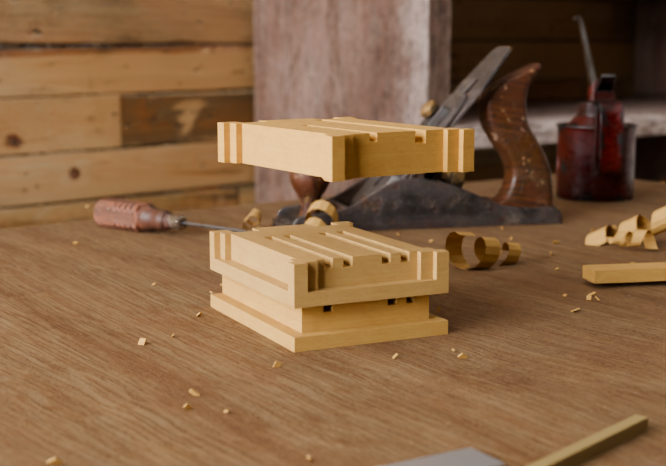
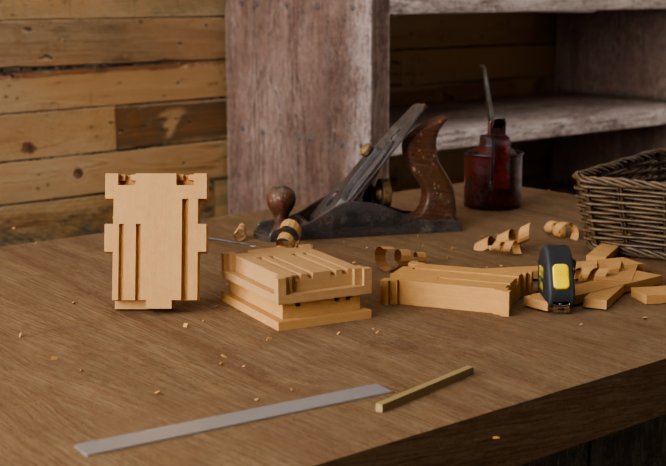
The dressed set, at draft: workshop, studio, wall mount
The render pass came back transformed and the whole shot list is
replaced. The workshop is a real place now -- plank wall, shelf, hand
plane, oiler, basket, shavings, rule and square on a bench -- lit by a
window, deep focus, with the assembly sequence shot inside it on one held
camera. The wall variant hangs on a short cleat on a plastered wall with
a true shadow instead of floating in a void. Timber measures against the
launch photography at last: hue 30.6 against a target of 30.5, birch
rather than terracotta, checked under both the studio key and the
workshop window since the same tint drifts warm under warm light.

Two of its calls stand: detail-joint is deleted rather than shipped weak
-- an abstract close-up of blocks with no scale or story, the same fault
as the close-up already killed -- and the exploded floating part in
workshop-hands became a stack mid-assembly with the next storeys laid
down, because a hover that reads as a diagram on a sweep reads as a
mistake in a room.

Root causes fixed underneath: slab() baked its location into the mesh
under Blender 5's transform_apply, which is why walls went missing and
offcuts hovered; CC0 assets from Poly Haven now light and dress the
scenes (fetched by tools/fetch_assets.py into git-ignored
assets/third_party with a SOURCES.md).

Everything here is draft resolution -- one third size, 24 samples --
committed so the compositions are on record. The full-quality pass is
running and will overwrite these files in place.

diff --git a/docs/directions/landing-opus.html b/docs/directions/landing-opus.html
@@ -576,7 +576,7 @@ figcaption b { color: var(--ink); font-weight: 400; }
     </div>
 
     <figure class="bleed">
-      <img src="../renders/web/hero-garden.jpg" alt="A Bee Home standing on legs in low afternoon light, sited in planting" />
+      <img src="../renders/web/studio-wall.jpg" alt="A Bee Home fixed to a wall on a short timber cleat, casting a soft shadow" />
     </figure>
 
     <!-- The numbers hang off the drawing, not the photograph. On a render they

diff --git a/tools/render_stills.py b/tools/render_stills.py
@@ -437,7 +437,7 @@ def env_workshop(dress=True):
     # and at f/10 a wall five metres off is just a large empty area of the frame.
     back = slab(9.4, 0.12, 3.62, (0.1, 1.62, 2.70))
     back.data.materials.append(planks)
-    right = slab(0.12, 5.2, 3.62, (2.55, 0.0, 2.70))
+    right = slab(0.12, 5.2, 3.62, (3.30, 0.0, 2.70))
     right.data.materials.append(plaster)
     ceiling = plane(12, location=(0, 0.2, 2.70))
     ceiling.data.materials.append(flat_material("ceiling", (0.68, 0.68, 0.665), 0.92))
@@ -467,7 +467,7 @@ def env_workshop(dress=True):
     key = bpy.context.object
     key.data.shape = "RECTANGLE"
     key.data.size, key.data.size_y = 1.44, 2.01
-    key.data.energy = 900.0
+    key.data.energy = 620.0
     key.data.color = (0.945, 0.960, 1.0)
     key.rotation_euler = (0, math.radians(-90), 0)
 
@@ -477,7 +477,7 @@ def env_workshop(dress=True):
     # and a key square to the bench leaves everything behind it black.
     bpy.ops.object.light_add(type="SUN", location=(-1.8, 0.0, 1.4))
     sun = bpy.context.object
-    sun.data.energy = 3.1
+    sun.data.energy = 4.6
     sun.data.angle = math.radians(9)
     sun.data.color = (1.0, 0.982, 0.958)
     sun.rotation_euler = (math.radians(64), 0, math.radians(-42))
@@ -493,11 +493,11 @@ def env_workshop(dress=True):
 
     # Bounce off the right-hand wall, keeping the shadow side open. Weak: the
     # shadow side wants to stay a stop or so down, not disappear.
-    bpy.ops.object.light_add(type="AREA", location=(2.45, -0.10, 0.55))
+    bpy.ops.object.light_add(type="AREA", location=(2.60, -0.10, 0.55))
     bounce = bpy.context.object
     bounce.data.shape = "RECTANGLE"
     bounce.data.size, bounce.data.size_y = 2.6, 1.8
-    bounce.data.energy = 55.0
+    bounce.data.energy = 42.0
     bounce.data.color = (1.0, 0.988, 0.972)
     bounce.rotation_euler = (0, math.radians(90), 0)
 
@@ -714,14 +714,27 @@ def env_studio_wall():
     the subject to take a contact shadow.
     """
     sweep = env_studio()
-    wall = slab(2.6, 0.11, 2.2, (0.06, 0.145, 1.30))
+    wall = slab(3.4, 0.11, 2.6, (0.06, 0.145, 2.10))
     wall.data.materials.append(
-        pbr_material("studio_wall", "beige_wall_001", scale=0.55,
-                     tint=(0.86, 0.855, 0.84), bump=0.5))
+        pbr_material("studio_wall", "beige_wall_001", scale=1.7,
+                     tint=(0.90, 0.898, 0.90), bump=0.55))
     # A skirting stops the wall meeting the floor on a single hard line, which
-    # is the detail that makes a plane read as a wall rather than as a card.
-    skirt = slab(2.6, 0.024, 0.09, (0.06, 0.078, 0.09))
-    skirt.data.materials.append(flat_material("skirting", (0.845, 0.842, 0.832), 0.55))
+    # is the detail that makes a plane read as a wall rather than as a card. It
+    # sits well below any of the framing here, but it is what stops a grazing
+    # camera catching the join.
+    skirt = slab(3.4, 0.026, 0.095, (0.06, 0.076, 0.095))
+    skirt.data.materials.append(flat_material("skirting", (0.855, 0.852, 0.842), 0.5))
+
+    # A second, closer soft source aimed along the wall. The studio key alone
+    # lights the object beautifully and leaves the wall behind it dead flat,
+    # and the whole reason this variant needs a wall is to see it take a shadow.
+    bpy.ops.object.light_add(type="AREA", location=(-1.35, -1.15, 1.85))
+    graze = bpy.context.object
+    graze.data.shape = "RECTANGLE"
+    graze.data.size, graze.data.size_y = 1.5, 1.2
+    graze.data.energy = 130.0
+    graze.data.color = (1.0, 0.99, 0.975)
+    graze.rotation_euler = (math.radians(64), 0, math.radians(-40))
     return sweep
 
 
@@ -884,6 +897,24 @@ def place(obj, x, y, z, z_min, z_stretch=1.0, yaw=0.0):
     obj.rotation_euler = (0, 0, yaw)
 
 
+def seat(objects, z=0.0):
+    """Drop a group so its lowest vertex rests at `z`.
+
+    `place` positions a part from its untransformed z-extent, which is right for
+    a stack but wrong the moment a part is tipped on edge — the rotation swings
+    the geometry through the bench. This re-measures after the fact.
+    """
+    from mathutils import Vector
+
+    bpy.context.view_layer.update()
+    corners = [obj.matrix_world @ Vector(c) for obj in objects for c in obj.bound_box]
+    shift = z - min(c.z for c in corners)
+    for obj in objects:
+        obj.location.z += shift
+    bpy.context.view_layer.update()
+    return objects
+
+
 def paint(objects, wood):
     mat = wood_material(f"wood_{wood}_{len(bpy.data.materials)}", WOODS[wood])
     for obj in objects:
@@ -961,20 +992,26 @@ def add_spike(index, origin, lift, wood="birch"):
     return paint(objs, wood)
 
 
-def add_wall_mount(index, origin, lift, wood="birch"):
-    """Fixed to a board: the base plate cantilevered off a vertical panel."""
+def add_wall_mount(index, origin, lift, wood="birch", wall_y=0.092):
+    """Fixed to a wall: the base plate carried on a short cleat.
+
+    The cleat is a bracket, not a backboard. The earlier version ran a panel the
+    full height of the mount, which meant a metre of dark timber standing behind
+    a 150 mm object — the framing then had to fit the panel, and the product
+    ended up a detail at the top of its own photograph. Anything holding this to
+    a wall only has to be as tall as the base it carries.
+    """
     objs = []
     base_parts, base_h, base_zmin = load_part(os.path.join(MODELS, "base.glb"))
     for obj in base_parts:
         place(obj, origin[0], origin[1], lift - base_h * MM, base_zmin)
-    objs += base_parts
-    objs = paint(objs, wood)
+    objs += paint(base_parts, wood)
 
-    board = slab(0.30, 0.020, lift + 0.30, (origin[0], origin[1] + 0.092, lift + 0.22))
-    board.data.materials.append(
-        wood_material(f"board_{len(bpy.data.materials)}", WOODS["walnut"],
-                      roughness=0.70, scale=5.0))
-    return objs + [board]
+    cleat = slab(0.150, 0.026, 0.128, (origin[0], origin[1] + wall_y, lift - 0.006))
+    cleat.data.materials.append(
+        wood_material(f"cleat_{len(bpy.data.materials)}", WOODS["walnut"],
+                      roughness=0.62, scale=6.0))
+    return objs + [cleat]
 
 
 def render(path):
@@ -1006,27 +1043,42 @@ def shot_workshop_bench(index):
     env_workshop()
     subject, _ = build(index, ["A", "B", "C", "M"], ["birch", "beech"],
                        origin=(-0.06, 0.04), lift=0.0, yaw=math.radians(16))
-    frame(subject, azimuth=-36, elevation=19, lens=52, margin=2.20, fstop=10.0,
-          target=(0.5, 0.44, 0.44))
+    frame(subject, azimuth=-34, elevation=15, lens=50, margin=3.05, fstop=10.0,
+          target=(0.62, 0.46, 0.52))
     render(f"{OUT}/workshop-bench.png")
 
 
 def shot_workshop_hands(index):
-    """Lower and closer: a storey going on, tools and shavings in the near field."""
+    """Lower and closer: a part-built stack with the next storeys still loose.
+
+    Nothing hovers. An exploded stack is a diagram convention and it survives on
+    a white sweep, but dropped into a room with real light and real shadows a
+    floating part stops reading as "about to go on" and starts reading as a
+    mistake. The same moment is carried here by a seated stack, the next storey
+    laid down beside it and one stood on edge behind.
+    """
     reset(*size(2000, 1400, 130))
     env_workshop()
     origin = (-0.02, 0.02)
     yaw = math.radians(-12)
-    subject, top = build(index, ["N", "O"], ["birch", "ash"], origin=origin,
-                         lift=0.0, yaw=yaw, roof=False)
-    # The next storey held just clear of the stack — the moment before it seats.
-    nxt, _, z_min = load_part(os.path.join(MODELS, "P_a.glb"))
-    for obj in nxt:
-        place(obj, origin[0] + 0.012, origin[1] - 0.006, top + 0.055, z_min,
-              yaw=yaw + math.radians(7))
-    subject += paint(nxt, "beech")
-    frame(subject, azimuth=-38, elevation=9, lens=68, margin=1.95, fstop=9.0,
-          target=(0.5, 0.45, 0.46))
+    subject, _ = build(index, ["N", "O"], ["birch", "ash"], origin=origin,
+                       lift=0.0, yaw=yaw, roof=False)
+
+    flat, _, z_min = load_part(os.path.join(MODELS, "P_a.glb"))
+    for obj in flat:
+        place(obj, 0.165, -0.070, 0.0, z_min, yaw=math.radians(28))
+    subject += paint(flat, "beech")
+
+    # One stood on its edge, leaning back on the stack — how a part actually
+    # waits its turn on a bench.
+    edge, _, e_zmin = load_part(os.path.join(MODELS, "C_a.glb"))
+    for obj in edge:
+        place(obj, -0.150, 0.120, 0.0, e_zmin, yaw=math.radians(-40))
+        obj.rotation_euler = (math.radians(74), 0, math.radians(-40))
+    subject += paint(seat(edge), "birch")
+
+    frame(subject, azimuth=-40, elevation=11, lens=70, margin=1.45, fstop=9.0,
+          target=(0.50, 0.46, 0.56))
     render(f"{OUT}/workshop-hands.png")
 
 
@@ -1054,7 +1106,7 @@ def shot_studio_three_quarter(index):
     subject, _ = build(index, ["D", "F", "G", "M"], ["beech", "birch", "walnut"],
                        lift=lift, yaw=yaw)
     subject += add_support(index, (0, 0), lift, wood="beech", yaw=yaw)
-    frame(subject, azimuth=-30, elevation=3, lens=105, margin=1.10, fstop=11.0,
+    frame(subject, azimuth=-30, elevation=3, lens=105, margin=1.18, fstop=11.0,
           target=(0.5, 0.5, 0.52))
     render(f"{OUT}/studio-three-quarter.png")
 
@@ -1063,11 +1115,15 @@ def shot_studio_grounded(index):
     """The ground-spike variant: different storeys again, and a cooler timber."""
     reset(*size(2000, 1500, 120), look="AgX - Base Contrast")
     env_studio()
-    lift = 0.40
+    lift = 0.27
     subject, _ = build(index, ["I", "J", "C", "M"], ["ash", "ash", "walnut"], lift=lift)
     subject += add_spike(index, (0, 0), lift, wood="ash")
-    frame(subject, azimuth=-20, elevation=6, lens=110, margin=1.10, fstop=11.0,
-          target=(0.5, 0.5, 0.56))
+    # Cropped through the spike rather than showing its point. On a seamless
+    # sweep there is no ground for it to enter, and a tapered post stopping in
+    # mid-air reads as a floating stick; running it out of the frame lets the
+    # eye finish it.
+    frame(subject, azimuth=-24, elevation=6, lens=110, margin=0.76, fstop=11.0,
+          target=(0.5, 0.5, 0.78))
     render(f"{OUT}/studio-grounded.png")
 
 
@@ -1075,24 +1131,16 @@ def shot_studio_wall(index):
     """The wall-fixed variant, on an actual wall, with the shadow to prove it."""
     reset(*size(2000, 1500, 120), look="AgX - Base Contrast")
     env_studio_wall()
-    lift = 0.62
+    lift = 1.05
     subject, _ = build(index, ["N", "O", "P", "M"], ["birch", "walnut", "birch"],
                        lift=lift)
     subject += add_wall_mount(index, (0, 0), lift, wood="birch")
-    frame(subject, azimuth=-26, elevation=4, lens=105, margin=1.34, fstop=11.0,
-          target=(0.5, 0.5, 0.50))
+    # Slightly below the object and off to one side, so the cleat, the gap
+    # behind it and the shadow it throws all read at once. Square on, a wall
+    # mount is indistinguishable from something standing on a shelf.
+    frame(subject, azimuth=-31, elevation=-4, lens=100, margin=1.62, fstop=11.0,
+          target=(0.5, 0.5, 0.46))
     render(f"{OUT}/studio-wall.png")
-
-
-def shot_detail_joint(index):
-    """Close on a corner: the storey seam and the spine key, raking window light."""
-    reset(*size(1800, 1350, 130))
-    env_workshop(dress=False)
-    bpy.context.scene.view_settings.exposure = -0.95
-    subject, _ = build(index, ["D", "F", "G", "H"], ["birch", "ash", "walnut"], lift=0.02)
-    frame(subject, azimuth=-52, elevation=12, lens=120, margin=1.02, fstop=13.0,
-          target=(0.24, 0.26, 0.50), pull=0.66)
-    render(f"{OUT}/detail-joint.png")
 
 
 def shot_assembly(index):
@@ -1146,7 +1194,6 @@ SHOTS = {
     "studio-three-quarter": shot_studio_three_quarter,
     "studio-grounded": shot_studio_grounded,
     "studio-wall": shot_studio_wall,
-    "detail-joint": shot_detail_joint,
     "assembly": shot_assembly,
 }
 

diff --git a/docs/ASSET-BRIEF.md b/docs/ASSET-BRIEF.md
@@ -95,7 +95,7 @@ to feed alongside the prompt:
 
 - `docs/plates/bh-4.png` — hidden-line drawing of the real four-storey model
   (ground truth for proportions; the object must match this)
-- `docs/renders/web/hero-studio.jpg` — our current best render (material and
+- `docs/renders/web/studio-front.jpg` — our current best render (material and
   lighting reference)
 - `viewer/public/models/*.glb` — actual geometry, for tools that take 3D input
 
